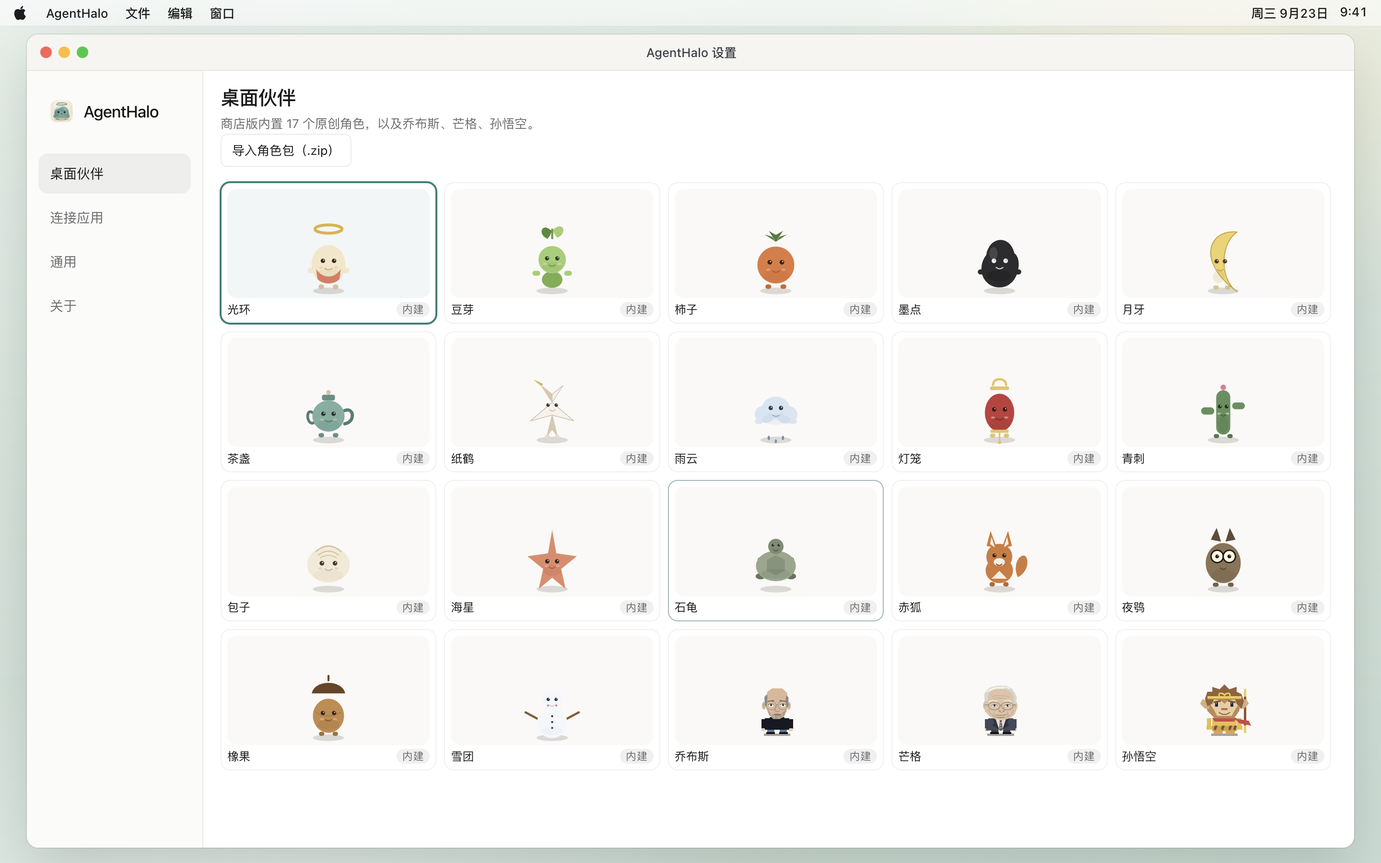
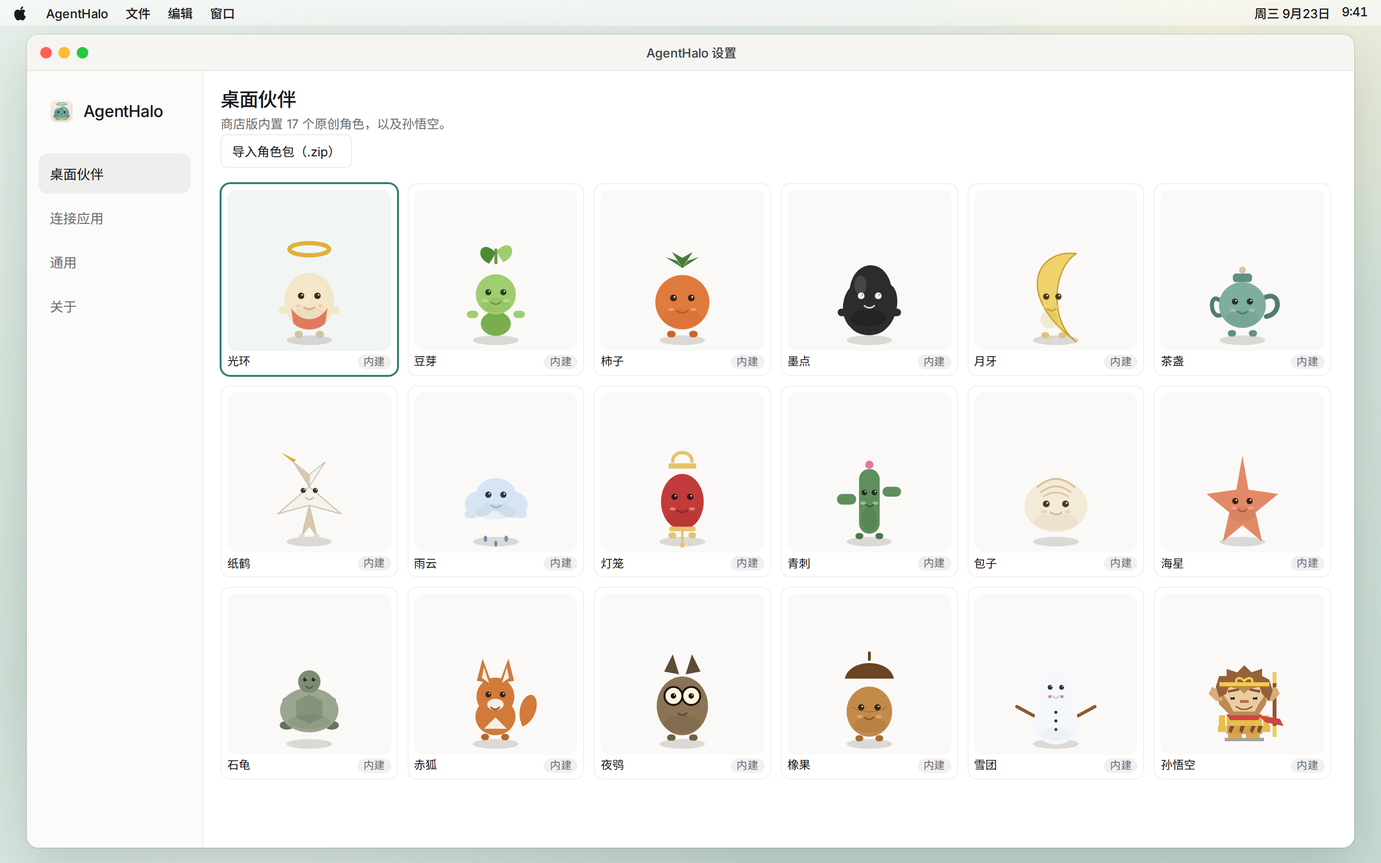
Drop Jobs and Munger from the listing screenshots
04-characters shows the 18 store characters in a 6 x 3 grid and says the
store build ships 17 original companions plus Sun Wukong. 05-about no
longer claims AgentHalo does not read conversations; it says task status
is processed on the Mac and is not stored off it or uploaded. Both PNGs
are re-rendered at 2880x1800.

The mockups now reference agenthalo/ through relative paths instead of
one developer's home folder, so they render from any checkout.

Claude-Session: https://claude.ai/code/session_01YZwcZnMMEu8dx9oekRyFzU

diff --git a/store/screenshots/04-characters.html b/store/screenshots/04-characters.html
@@ -1,6 +1,6 @@
 <!DOCTYPE html><html lang="zh-Hans"><head><meta charset="utf-8">
 <meta name="color-scheme" content="light">
-<link rel="stylesheet" href="file:///Users/martin/Desktop/AgentHalo-MAS/agenthalo/src/settings.css">
+<link rel="stylesheet" href="../../agenthalo/src/settings.css">
 <style>
 
 * { box-sizing: border-box; }
@@ -63,9 +63,9 @@ html, body { margin: 0; width: 1440px; height: 900px; overflow: hidden;
 .content { padding: 14px 18px 8px !important; }
 .content h1 { font-size: 20px !important; margin-bottom: 2px !important; }
 .content .subtitle { margin: 0 0 8px !important; }
-.theme-grid { grid-template-columns: repeat(5, 1fr) !important; gap: 8px !important; }
+.theme-grid { grid-template-columns: repeat(6, 1fr) !important; gap: 10px !important; }
 .theme-card { padding: 6px !important; gap: 4px !important; }
-.theme-thumb { aspect-ratio: 1.85 / 1 !important; }
+.theme-thumb { aspect-ratio: 1.02 / 1 !important; }
 .theme-card-name { font-size: 12px !important; line-height: 1.2; }
 .theme-card, .theme-card:focus, .theme-card:focus-visible { outline: none !important; }
 .theme-card { box-shadow: none !important; }
@@ -75,72 +75,66 @@ html, body { margin: 0; width: 1440px; height: 900px; overflow: hidden;
 </style></head><body><div class="desktop"><div class="menubar"><svg class="apple" width="14" height="16" viewBox="0 0 14 17" aria-hidden="true"><path fill="#1c1c1e" d="M11.2 8.9c0-2 1.6-3 1.7-3.1-1-1.4-2.4-1.6-2.9-1.6-1.2-.1-2.4.7-3 .7s-1.6-.7-2.6-.7c-1.4 0-2.6.8-3.3 2-1.4 2.5-.4 6.1 1 8.1.7 1 1.5 2.1 2.5 2 1 0 1.4-.7 2.6-.7s1.6.7 2.6.6c1.1 0 1.8-1 2.4-2 .8-1.1 1.1-2.2 1.1-2.3-.1 0-2.1-.8-2.1-3zM9.5 3.2c.5-.7.9-1.6.8-2.5-.8 0-1.7.5-2.2 1.2-.5.6-.9 1.5-.8 2.4.9.1 1.7-.4 2.2-1.1z"/></svg><span>AgentHalo</span><span>文件</span><span>编辑</span><span>窗口</span><span class="sp"></span><span class="right"><span>周三 9月23日</span><span>9:41</span></span></div><div class="window" style="left:36px;top:46px;width:1368px;height:830px">
       <div class="titlebar"><span class="lights"><i class="r"></i><i class="y"></i><i class="g"></i></span><b>AgentHalo 设置</b></div>
       <div class="app" style="min-height:0;flex:1">
-        <nav class="sidebar"><div class="sidebar-brand"><img src="file:///Users/martin/Desktop/AgentHalo-MAS/agenthalo/assets/icon.png" alt=""><span>AgentHalo</span></div><button class="sidebar-item active" type="button"><span class="sidebar-item-label">桌面伙伴</span></button><button class="sidebar-item" type="button"><span class="sidebar-item-label">连接应用</span></button><button class="sidebar-item" type="button"><span class="sidebar-item-label">通用</span></button><button class="sidebar-item" type="button"><span class="sidebar-item-label">关于</span></button></nav>
+        <nav class="sidebar"><div class="sidebar-brand"><img src="../../agenthalo/assets/icon.png" alt=""><span>AgentHalo</span></div><button class="sidebar-item active" type="button"><span class="sidebar-item-label">桌面伙伴</span></button><button class="sidebar-item" type="button"><span class="sidebar-item-label">连接应用</span></button><button class="sidebar-item" type="button"><span class="sidebar-item-label">通用</span></button><button class="sidebar-item" type="button"><span class="sidebar-item-label">关于</span></button></nav>
         <main class="content" style="overflow:auto">
 <h1>桌面伙伴</h1>
-<p class="subtitle">商店版内置 17 个原创角色，以及乔布斯、芒格、孙悟空。</p>
+<p class="subtitle">商店版内置 17 个原创角色，以及孙悟空。</p>
 <div style="display:flex;gap:8px;margin:-8px 0 16px">
   <button class="soft-btn" type="button">导入角色包（.zip）</button>
 </div>
 <div class="theme-grid"><div class="theme-card active" role="img">
-      <div class="theme-thumb"><img src="file:///Users/martin/Desktop/AgentHalo-MAS/agenthalo/themes/halo/assets/idle-follow.svg" alt="光环"></div>
+      <div class="theme-thumb"><img src="../../agenthalo/themes/halo/assets/idle-follow.svg" alt="光环"></div>
       <div class="theme-card-name"><span class="theme-card-name-text">光环</span><span class="theme-card-badge">内建</span></div>
     </div><div class="theme-card" role="img">
-      <div class="theme-thumb"><img src="file:///Users/martin/Desktop/AgentHalo-MAS/agenthalo/themes/sprout/assets/idle-follow.svg" alt="豆芽"></div>
+      <div class="theme-thumb"><img src="../../agenthalo/themes/sprout/assets/idle-follow.svg" alt="豆芽"></div>
       <div class="theme-card-name"><span class="theme-card-name-text">豆芽</span><span class="theme-card-badge">内建</span></div>
     </div><div class="theme-card" role="img">
-      <div class="theme-thumb"><img src="file:///Users/martin/Desktop/AgentHalo-MAS/agenthalo/themes/persimmon/assets/idle-follow.svg" alt="柿子"></div>
+      <div class="theme-thumb"><img src="../../agenthalo/themes/persimmon/assets/idle-follow.svg" alt="柿子"></div>
       <div class="theme-card-name"><span class="theme-card-name-text">柿子</span><span class="theme-card-badge">内建</span></div>
     </div><div class="theme-card" role="img">
-      <div class="theme-thumb"><img src="file:///Users/martin/Desktop/AgentHalo-MAS/agenthalo/themes/ink/assets/idle-follow.svg" alt="墨点"></div>
+      <div class="theme-thumb"><img src="../../agenthalo/themes/ink/assets/idle-follow.svg" alt="墨点"></div>
       <div class="theme-card-name"><span class="theme-card-name-text">墨点</span><span class="theme-card-badge">内建</span></div>
     </div><div class="theme-card" role="img">
-      <div class="theme-thumb"><img src="file:///Users/martin/Desktop/AgentHalo-MAS/agenthalo/themes/crescent/assets/idle-follow.svg" alt="月牙"></div>
+      <div class="theme-thumb"><img src="../../agenthalo/themes/crescent/assets/idle-follow.svg" alt="月牙"></div>
       <div class="theme-card-name"><span class="theme-card-name-text">月牙</span><span class="theme-card-badge">内建</span></div>
     </div><div class="theme-card" role="img">
-      <div class="theme-thumb"><img src="file:///Users/martin/Desktop/AgentHalo-MAS/agenthalo/themes/teapot/assets/idle-follow.svg" alt="茶盏"></div>
+      <div class="theme-thumb"><img src="../../agenthalo/themes/teapot/assets/idle-follow.svg" alt="茶盏"></div>
       <div class="theme-card-name"><span class="theme-card-name-text">茶盏</span><span class="theme-card-badge">内建</span></div>
     </div><div class="theme-card" role="img">
-      <div class="theme-thumb"><img src="file:///Users/martin/Desktop/AgentHalo-MAS/agenthalo/themes/crane/assets/idle-follow.svg" alt="纸鹤"></div>
+      <div class="theme-thumb"><img src="../../agenthalo/themes/crane/assets/idle-follow.svg" alt="纸鹤"></div>
       <div class="theme-card-name"><span class="theme-card-name-text">纸鹤</span><span class="theme-card-badge">内建</span></div>
     </div><div class="theme-card" role="img">
-      <div class="theme-thumb"><img src="file:///Users/martin/Desktop/AgentHalo-MAS/agenthalo/themes/nimbus/assets/idle-follow.svg" alt="雨云"></div>
+      <div class="theme-thumb"><img src="../../agenthalo/themes/nimbus/assets/idle-follow.svg" alt="雨云"></div>
       <div class="theme-card-name"><span class="theme-card-name-text">雨云</span><span class="theme-card-badge">内建</span></div>
     </div><div class="theme-card" role="img">
-      <div class="theme-thumb"><img src="file:///Users/martin/Desktop/AgentHalo-MAS/agenthalo/themes/lantern/assets/idle-follow.svg" alt="灯笼"></div>
+      <div class="theme-thumb"><img src="../../agenthalo/themes/lantern/assets/idle-follow.svg" alt="灯笼"></div>
       <div class="theme-card-name"><span class="theme-card-name-text">灯笼</span><span class="theme-card-badge">内建</span></div>
     </div><div class="theme-card" role="img">
-      <div class="theme-thumb"><img src="file:///Users/martin/Desktop/AgentHalo-MAS/agenthalo/themes/cactus/assets/idle-follow.svg" alt="青刺"></div>
+      <div class="theme-thumb"><img src="../../agenthalo/themes/cactus/assets/idle-follow.svg" alt="青刺"></div>
       <div class="theme-card-name"><span class="theme-card-name-text">青刺</span><span class="theme-card-badge">内建</span></div>
     </div><div class="theme-card" role="img">
-      <div class="theme-thumb"><img src="file:///Users/martin/Desktop/AgentHalo-MAS/agenthalo/themes/bao/assets/idle-follow.svg" alt="包子"></div>
+      <div class="theme-thumb"><img src="../../agenthalo/themes/bao/assets/idle-follow.svg" alt="包子"></div>
       <div class="theme-card-name"><span class="theme-card-name-text">包子</span><span class="theme-card-badge">内建</span></div>
     </div><div class="theme-card" role="img">
-      <div class="theme-thumb"><img src="file:///Users/martin/Desktop/AgentHalo-MAS/agenthalo/themes/starfish/assets/idle-follow.svg" alt="海星"></div>
+      <div class="theme-thumb"><img src="../../agenthalo/themes/starfish/assets/idle-follow.svg" alt="海星"></div>
       <div class="theme-card-name"><span class="theme-card-name-text">海星</span><span class="theme-card-badge">内建</span></div>
     </div><div class="theme-card" role="img">
-      <div class="theme-thumb"><img src="file:///Users/martin/Desktop/AgentHalo-MAS/agenthalo/themes/turtle/assets/idle-follow.svg" alt="石龟"></div>
+      <div class="theme-thumb"><img src="../../agenthalo/themes/turtle/assets/idle-follow.svg" alt="石龟"></div>
       <div class="theme-card-name"><span class="theme-card-name-text">石龟</span><span class="theme-card-badge">内建</span></div>
     </div><div class="theme-card" role="img">
-      <div class="theme-thumb"><img src="file:///Users/martin/Desktop/AgentHalo-MAS/agenthalo/themes/fox/assets/idle-follow.svg" alt="赤狐"></div>
+      <div class="theme-thumb"><img src="../../agenthalo/themes/fox/assets/idle-follow.svg" alt="赤狐"></div>
       <div class="theme-card-name"><span class="theme-card-name-text">赤狐</span><span class="theme-card-badge">内建</span></div>
     </div><div class="theme-card" role="img">
-      <div class="theme-thumb"><img src="file:///Users/martin/Desktop/AgentHalo-MAS/agenthalo/themes/owl/assets/idle-follow.svg" alt="夜鸮"></div>
+      <div class="theme-thumb"><img src="../../agenthalo/themes/owl/assets/idle-follow.svg" alt="夜鸮"></div>
       <div class="theme-card-name"><span class="theme-card-name-text">夜鸮</span><span class="theme-card-badge">内建</span></div>
     </div><div class="theme-card" role="img">
-      <div class="theme-thumb"><img src="file:///Users/martin/Desktop/AgentHalo-MAS/agenthalo/themes/acorn/assets/idle-follow.svg" alt="橡果"></div>
+      <div class="theme-thumb"><img src="../../agenthalo/themes/acorn/assets/idle-follow.svg" alt="橡果"></div>
       <div class="theme-card-name"><span class="theme-card-name-text">橡果</span><span class="theme-card-badge">内建</span></div>
     </div><div class="theme-card" role="img">
-      <div class="theme-thumb"><img src="file:///Users/martin/Desktop/AgentHalo-MAS/agenthalo/themes/snow/assets/idle-follow.svg" alt="雪团"></div>
+      <div class="theme-thumb"><img src="../../agenthalo/themes/snow/assets/idle-follow.svg" alt="雪团"></div>
       <div class="theme-card-name"><span class="theme-card-name-text">雪团</span><span class="theme-card-badge">内建</span></div>
     </div><div class="theme-card" role="img">
-      <div class="theme-thumb"><img src="file:///Users/martin/Desktop/AgentHalo-MAS/agenthalo/themes/jobs/assets/idle-follow.svg" alt="乔布斯"></div>
-      <div class="theme-card-name"><span class="theme-card-name-text">乔布斯</span><span class="theme-card-badge">内建</span></div>
-    </div><div class="theme-card" role="img">
-      <div class="theme-thumb"><img src="file:///Users/martin/Desktop/AgentHalo-MAS/agenthalo/themes/munger/assets/idle-follow.svg" alt="芒格"></div>
-      <div class="theme-card-name"><span class="theme-card-name-text">芒格</span><span class="theme-card-badge">内建</span></div>
-    </div><div class="theme-card" role="img">
-      <div class="theme-thumb"><img src="file:///Users/martin/Desktop/AgentHalo-MAS/agenthalo/themes/sunwukong/assets/idle-follow.svg" alt="孙悟空"></div>
+      <div class="theme-thumb"><img src="../../agenthalo/themes/sunwukong/assets/idle-follow.svg" alt="孙悟空"></div>
       <div class="theme-card-name"><span class="theme-card-name-text">孙悟空</span><span class="theme-card-badge">内建</span></div>
     </div></div>
 </main>

diff --git a/store/screenshots/02-choose-folder.html b/store/screenshots/02-choose-folder.html
@@ -1,6 +1,6 @@
 <!DOCTYPE html><html lang="zh-Hans"><head><meta charset="utf-8">
 <meta name="color-scheme" content="light">
-<link rel="stylesheet" href="file:///Users/martin/Desktop/AgentHalo-MAS/agenthalo/src/settings.css">
+<link rel="stylesheet" href="../../agenthalo/src/settings.css">
 <style>
 
 * { box-sizing: border-box; }
@@ -62,7 +62,7 @@ html, body { margin: 0; width: 1440px; height: 900px; overflow: hidden;
 </style></head><body><div class="desktop"><div class="menubar"><svg class="apple" width="14" height="16" viewBox="0 0 14 17" aria-hidden="true"><path fill="#1c1c1e" d="M11.2 8.9c0-2 1.6-3 1.7-3.1-1-1.4-2.4-1.6-2.9-1.6-1.2-.1-2.4.7-3 .7s-1.6-.7-2.6-.7c-1.4 0-2.6.8-3.3 2-1.4 2.5-.4 6.1 1 8.1.7 1 1.5 2.1 2.5 2 1 0 1.4-.7 2.6-.7s1.6.7 2.6.6c1.1 0 1.8-1 2.4-2 .8-1.1 1.1-2.2 1.1-2.3-.1 0-2.1-.8-2.1-3zM9.5 3.2c.5-.7.9-1.6.8-2.5-.8 0-1.7.5-2.2 1.2-.5.6-.9 1.5-.8 2.4.9.1 1.7-.4 2.2-1.1z"/></svg><span>AgentHalo</span><span>文件</span><span>编辑</span><span>窗口</span><span class="sp"></span><span class="right"><span>周三 9月23日</span><span>9:41</span></span></div><div class="window">
       <div class="titlebar"><span class="lights"><i class="r"></i><i class="y"></i><i class="g"></i></span><b>AgentHalo 设置</b></div>
       <div class="app" style="min-height:0;flex:1">
-        <nav class="sidebar"><div class="sidebar-brand"><img src="file:///Users/martin/Desktop/AgentHalo-MAS/agenthalo/assets/icon.png" alt=""><span>AgentHalo</span></div><button class="sidebar-item" type="button"><span class="sidebar-item-label">桌面伙伴</span></button><button class="sidebar-item active" type="button"><span class="sidebar-item-label">连接应用</span></button><button class="sidebar-item" type="button"><span class="sidebar-item-label">通用</span></button><button class="sidebar-item" type="button"><span class="sidebar-item-label">关于</span></button></nav>
+        <nav class="sidebar"><div class="sidebar-brand"><img src="../../agenthalo/assets/icon.png" alt=""><span>AgentHalo</span></div><button class="sidebar-item" type="button"><span class="sidebar-item-label">桌面伙伴</span></button><button class="sidebar-item active" type="button"><span class="sidebar-item-label">连接应用</span></button><button class="sidebar-item" type="button"><span class="sidebar-item-label">通用</span></button><button class="sidebar-item" type="button"><span class="sidebar-item-label">关于</span></button></nav>
         <main class="content" style="overflow:auto">
 <h1>连接应用</h1>
 <p class="subtitle">接入你常用的 AI 应用，在桌面查看任务状态。</p>
@@ -74,7 +74,7 @@ html, body { margin: 0; width: 1440px; height: 900px; overflow: hidden;
       <div class="section-rows">
         <div class="row">
           <div class="row-text">
-            <span class="row-label" style="display:flex;align-items:center;gap:8px"><img src="file:///Users/martin/Desktop/AgentHalo-MAS/agenthalo/assets/icons/agents/claude-code.png" width="18" height="18" alt="">Claude Code</span>
+            <span class="row-label" style="display:flex;align-items:center;gap:8px"><img src="../../agenthalo/assets/icons/agents/claude-code.png" width="18" height="18" alt="">Claude Code</span>
             <span class="row-desc agent-badges"><span class="agent-badge integration not-installed">未接入</span></span>
           </div>
           <div class="switch"></div>
@@ -92,7 +92,7 @@ html, body { margin: 0; width: 1440px; height: 900px; overflow: hidden;
       <div class="section-rows">
         <div class="row">
           <div class="row-text">
-            <span class="row-label" style="display:flex;align-items:center;gap:8px"><img src="file:///Users/martin/Desktop/AgentHalo-MAS/agenthalo/assets/icons/agents/codex.png" width="18" height="18" alt="">Codex</span>
+            <span class="row-label" style="display:flex;align-items:center;gap:8px"><img src="../../agenthalo/assets/icons/agents/codex.png" width="18" height="18" alt="">Codex</span>
             <span class="row-desc agent-badges"><span class="agent-badge integration not-installed">未接入</span></span>
           </div>
           <div class="switch"></div>
@@ -110,7 +110,7 @@ html, body { margin: 0; width: 1440px; height: 900px; overflow: hidden;
       <div class="section-rows">
         <div class="row">
           <div class="row-text">
-            <span class="row-label" style="display:flex;align-items:center;gap:8px"><img src="file:///Users/martin/Desktop/AgentHalo-MAS/agenthalo/assets/icons/agents/cursor-agent.png" width="18" height="18" alt="">Cursor</span>
+            <span class="row-label" style="display:flex;align-items:center;gap:8px"><img src="../../agenthalo/assets/icons/agents/cursor-agent.png" width="18" height="18" alt="">Cursor</span>
             <span class="row-desc agent-badges"><span class="agent-badge integration not-installed">未接入</span></span>
           </div>
           <div class="switch"></div>

diff --git a/store/screenshots/03-authorized.html b/store/screenshots/03-authorized.html
@@ -1,6 +1,6 @@
 <!DOCTYPE html><html lang="zh-Hans"><head><meta charset="utf-8">
 <meta name="color-scheme" content="light">
-<link rel="stylesheet" href="file:///Users/martin/Desktop/AgentHalo-MAS/agenthalo/src/settings.css">
+<link rel="stylesheet" href="../../agenthalo/src/settings.css">
 <style>
 
 * { box-sizing: border-box; }
@@ -62,7 +62,7 @@ html, body { margin: 0; width: 1440px; height: 900px; overflow: hidden;
 </style></head><body><div class="desktop"><div class="menubar"><svg class="apple" width="14" height="16" viewBox="0 0 14 17" aria-hidden="true"><path fill="#1c1c1e" d="M11.2 8.9c0-2 1.6-3 1.7-3.1-1-1.4-2.4-1.6-2.9-1.6-1.2-.1-2.4.7-3 .7s-1.6-.7-2.6-.7c-1.4 0-2.6.8-3.3 2-1.4 2.5-.4 6.1 1 8.1.7 1 1.5 2.1 2.5 2 1 0 1.4-.7 2.6-.7s1.6.7 2.6.6c1.1 0 1.8-1 2.4-2 .8-1.1 1.1-2.2 1.1-2.3-.1 0-2.1-.8-2.1-3zM9.5 3.2c.5-.7.9-1.6.8-2.5-.8 0-1.7.5-2.2 1.2-.5.6-.9 1.5-.8 2.4.9.1 1.7-.4 2.2-1.1z"/></svg><span>AgentHalo</span><span>文件</span><span>编辑</span><span>窗口</span><span class="sp"></span><span class="right"><span>周三 9月23日</span><span>9:41</span></span></div><div class="window">
       <div class="titlebar"><span class="lights"><i class="r"></i><i class="y"></i><i class="g"></i></span><b>AgentHalo 设置</b></div>
       <div class="app" style="min-height:0;flex:1">
-        <nav class="sidebar"><div class="sidebar-brand"><img src="file:///Users/martin/Desktop/AgentHalo-MAS/agenthalo/assets/icon.png" alt=""><span>AgentHalo</span></div><button class="sidebar-item" type="button"><span class="sidebar-item-label">桌面伙伴</span></button><button class="sidebar-item active" type="button"><span class="sidebar-item-label">连接应用</span></button><button class="sidebar-item" type="button"><span class="sidebar-item-label">通用</span></button><button class="sidebar-item" type="button"><span class="sidebar-item-label">关于</span></button></nav>
+        <nav class="sidebar"><div class="sidebar-brand"><img src="../../agenthalo/assets/icon.png" alt=""><span>AgentHalo</span></div><button class="sidebar-item" type="button"><span class="sidebar-item-label">桌面伙伴</span></button><button class="sidebar-item active" type="button"><span class="sidebar-item-label">连接应用</span></button><button class="sidebar-item" type="button"><span class="sidebar-item-label">通用</span></button><button class="sidebar-item" type="button"><span class="sidebar-item-label">关于</span></button></nav>
         <main class="content" style="overflow:auto">
 <h1>连接应用</h1>
 <p class="subtitle">接入你常用的 AI 应用，在桌面查看任务状态。</p>
@@ -74,7 +74,7 @@ html, body { margin: 0; width: 1440px; height: 900px; overflow: hidden;
       <div class="section-rows">
         <div class="row">
           <div class="row-text">
-            <span class="row-label" style="display:flex;align-items:center;gap:8px"><img src="file:///Users/martin/Desktop/AgentHalo-MAS/agenthalo/assets/icons/agents/claude-code.png" width="18" height="18" alt="">Claude Code</span>
+            <span class="row-label" style="display:flex;align-items:center;gap:8px"><img src="../../agenthalo/assets/icons/agents/claude-code.png" width="18" height="18" alt="">Claude Code</span>
             <span class="row-desc agent-badges"><span class="agent-badge integration">已接入</span></span>
           </div>
           <div class="switch on"></div>
@@ -92,7 +92,7 @@ html, body { margin: 0; width: 1440px; height: 900px; overflow: hidden;
       <div class="section-rows">
         <div class="row">
           <div class="row-text">
-            <span class="row-label" style="display:flex;align-items:center;gap:8px"><img src="file:///Users/martin/Desktop/AgentHalo-MAS/agenthalo/assets/icons/agents/codex.png" width="18" height="18" alt="">Codex</span>
+            <span class="row-label" style="display:flex;align-items:center;gap:8px"><img src="../../agenthalo/assets/icons/agents/codex.png" width="18" height="18" alt="">Codex</span>
             <span class="row-desc agent-badges"><span class="agent-badge integration">已接入</span></span>
           </div>
           <div class="switch on"></div>
@@ -110,7 +110,7 @@ html, body { margin: 0; width: 1440px; height: 900px; overflow: hidden;
       <div class="section-rows">
         <div class="row">
           <div class="row-text">
-            <span class="row-label" style="display:flex;align-items:center;gap:8px"><img src="file:///Users/martin/Desktop/AgentHalo-MAS/agenthalo/assets/icons/agents/cursor-agent.png" width="18" height="18" alt="">Cursor</span>
+            <span class="row-label" style="display:flex;align-items:center;gap:8px"><img src="../../agenthalo/assets/icons/agents/cursor-agent.png" width="18" height="18" alt="">Cursor</span>
             <span class="row-desc agent-badges"><span class="agent-badge integration not-installed">未接入</span></span>
           </div>
           <div class="switch"></div>

diff --git a/store/screenshots/05-about.html b/store/screenshots/05-about.html
@@ -1,6 +1,6 @@
 <!DOCTYPE html><html lang="zh-Hans"><head><meta charset="utf-8">
 <meta name="color-scheme" content="light">
-<link rel="stylesheet" href="file:///Users/martin/Desktop/AgentHalo-MAS/agenthalo/src/settings.css">
+<link rel="stylesheet" href="../../agenthalo/src/settings.css">
 <style>
 
 * { box-sizing: border-box; }
@@ -62,10 +62,10 @@ html, body { margin: 0; width: 1440px; height: 900px; overflow: hidden;
 </style></head><body><div class="desktop"><div class="menubar"><svg class="apple" width="14" height="16" viewBox="0 0 14 17" aria-hidden="true"><path fill="#1c1c1e" d="M11.2 8.9c0-2 1.6-3 1.7-3.1-1-1.4-2.4-1.6-2.9-1.6-1.2-.1-2.4.7-3 .7s-1.6-.7-2.6-.7c-1.4 0-2.6.8-3.3 2-1.4 2.5-.4 6.1 1 8.1.7 1 1.5 2.1 2.5 2 1 0 1.4-.7 2.6-.7s1.6.7 2.6.6c1.1 0 1.8-1 2.4-2 .8-1.1 1.1-2.2 1.1-2.3-.1 0-2.1-.8-2.1-3zM9.5 3.2c.5-.7.9-1.6.8-2.5-.8 0-1.7.5-2.2 1.2-.5.6-.9 1.5-.8 2.4.9.1 1.7-.4 2.2-1.1z"/></svg><span>AgentHalo</span><span>文件</span><span>编辑</span><span>窗口</span><span class="sp"></span><span class="right"><span>周三 9月23日</span><span>9:41</span></span></div><div class="window">
       <div class="titlebar"><span class="lights"><i class="r"></i><i class="y"></i><i class="g"></i></span><b>AgentHalo 设置</b></div>
       <div class="app" style="min-height:0;flex:1">
-        <nav class="sidebar"><div class="sidebar-brand"><img src="file:///Users/martin/Desktop/AgentHalo-MAS/agenthalo/assets/icon.png" alt=""><span>AgentHalo</span></div><button class="sidebar-item" type="button"><span class="sidebar-item-label">桌面伙伴</span></button><button class="sidebar-item" type="button"><span class="sidebar-item-label">连接应用</span></button><button class="sidebar-item" type="button"><span class="sidebar-item-label">通用</span></button><button class="sidebar-item active" type="button"><span class="sidebar-item-label">关于</span></button></nav>
+        <nav class="sidebar"><div class="sidebar-brand"><img src="../../agenthalo/assets/icon.png" alt=""><span>AgentHalo</span></div><button class="sidebar-item" type="button"><span class="sidebar-item-label">桌面伙伴</span></button><button class="sidebar-item" type="button"><span class="sidebar-item-label">连接应用</span></button><button class="sidebar-item" type="button"><span class="sidebar-item-label">通用</span></button><button class="sidebar-item active" type="button"><span class="sidebar-item-label">关于</span></button></nav>
         <main class="content" style="overflow:auto">
 <div class="about-hero">
-  <img class="about-app-icon" src="file:///Users/martin/Desktop/AgentHalo-MAS/agenthalo/assets/icon.png" alt="AgentHalo">
+  <img class="about-app-icon" src="../../agenthalo/assets/icon.png" alt="AgentHalo">
   <h2 class="about-title">AgentHalo</h2>
   <p class="about-tagline">陪你把想法慢慢变成现实。</p>
 </div>
@@ -75,7 +75,7 @@ html, body { margin: 0; width: 1440px; height: 900px; overflow: hidden;
   <div class="row"><div class="row-text"><span class="row-label">支持</span></div><span class="row-desc" style="color:#307e76">联系支持</span></div>
   <div class="row"><div class="row-text"><span class="row-label">许可</span></div><span class="row-desc">AGPL-3.0-only</span></div>
 </div></section>
-<p class="subtitle" style="margin-top:8px;line-height:1.55">不读对话，不把任务内容上传到苹果或我们的服务器。状态口只绑在 127.0.0.1。商店版要接入工具时，需在设置里亲手选择配置文件夹，hook 只写在你授权的目录里。</p>
+<p class="subtitle" style="margin-top:8px;line-height:1.55">任务状态只在这台 Mac 上处理，不存到 Mac 以外，也不上传给苹果或我们。本机状态服务只监听 127.0.0.1。<br>接入工具前，需要在设置里亲手选择它的配置文件夹；hook 只写在你授权的文件夹里。</p>
 </main>
       </div>
     </div></div></body></html>

diff --git a/store/screenshots/01-desktop.html b/store/screenshots/01-desktop.html
@@ -1,6 +1,6 @@
 <!DOCTYPE html><html lang="zh-Hans"><head><meta charset="utf-8">
 <meta name="color-scheme" content="light">
-<link rel="stylesheet" href="file:///Users/martin/Desktop/AgentHalo-MAS/agenthalo/src/settings.css">
+<link rel="stylesheet" href="../../agenthalo/src/settings.css">
 <style>
 
 * { box-sizing: border-box; }
@@ -62,9 +62,9 @@ html, body { margin: 0; width: 1440px; height: 900px; overflow: hidden;
 </style></head><body><div class="desktop"><div class="menubar"><svg class="apple" width="14" height="16" viewBox="0 0 14 17" aria-hidden="true"><path fill="#1c1c1e" d="M11.2 8.9c0-2 1.6-3 1.7-3.1-1-1.4-2.4-1.6-2.9-1.6-1.2-.1-2.4.7-3 .7s-1.6-.7-2.6-.7c-1.4 0-2.6.8-3.3 2-1.4 2.5-.4 6.1 1 8.1.7 1 1.5 2.1 2.5 2 1 0 1.4-.7 2.6-.7s1.6.7 2.6.6c1.1 0 1.8-1 2.4-2 .8-1.1 1.1-2.2 1.1-2.3-.1 0-2.1-.8-2.1-3zM9.5 3.2c.5-.7.9-1.6.8-2.5-.8 0-1.7.5-2.2 1.2-.5.6-.9 1.5-.8 2.4.9.1 1.7-.4 2.2-1.1z"/></svg><span>AgentHalo</span><span>文件</span><span>编辑</span><span>窗口</span><span class="sp"></span><span class="right"><span>周三 9月23日</span><span>9:41</span></span></div>
 <div class="hud">
   <div class="hud-head">任务</div>
-  <div class="task"><span class="dot"></span><img src="file:///Users/martin/Desktop/AgentHalo-MAS/agenthalo/assets/icons/agents/claude-code.png" alt=""><span class="name">整理商店截图</span><span class="chip work">工作中</span></div>
-  <div class="task"><span class="dot" style="background:#6366f1"></span><img src="file:///Users/martin/Desktop/AgentHalo-MAS/agenthalo/assets/icons/agents/codex.png" alt=""><span class="name">核对签名</span><span class="chip think">思考中</span></div>
-  <div class="task"><span class="dot" style="background:#9ca3af"></span><img src="file:///Users/martin/Desktop/AgentHalo-MAS/agenthalo/assets/icons/agents/cursor-agent.png" alt=""><span class="name">角色页</span><span class="chip done">已完成</span></div>
+  <div class="task"><span class="dot"></span><img src="../../agenthalo/assets/icons/agents/claude-code.png" alt=""><span class="name">整理商店截图</span><span class="chip work">工作中</span></div>
+  <div class="task"><span class="dot" style="background:#6366f1"></span><img src="../../agenthalo/assets/icons/agents/codex.png" alt=""><span class="name">核对签名</span><span class="chip think">思考中</span></div>
+  <div class="task"><span class="dot" style="background:#9ca3af"></span><img src="../../agenthalo/assets/icons/agents/cursor-agent.png" alt=""><span class="name">角色页</span><span class="chip done">已完成</span></div>
 </div>
-<div class="pet"><img src="file:///Users/martin/Desktop/AgentHalo-MAS/agenthalo/themes/halo/assets/idle-follow.svg" alt="光环"></div>
+<div class="pet"><img src="../../agenthalo/themes/halo/assets/idle-follow.svg" alt="光环"></div>
 </div></body></html>

diff --git a/store/CONNECT.md b/store/CONNECT.md
@@ -144,7 +144,7 @@ Contact: addsumtech@gmail.com
 
 ## 截图清单
 
-Mac App Store 截图必须是 16:10，可用尺寸：1280×800、1440×900、2560×1600、2880×1800。每个语言 1–10 张。`store/screenshots/*.png` 是 2880×1800，由同名 HTML 以 1440×900 视口、deviceScaleFactor 2 渲染而成。
+Mac App Store 截图必须是 16:10，可用尺寸：1280×800、1440×900、2560×1600、2880×1800。每个语言 1–10 张。`store/screenshots/*.png` 是 2880×1800，由同名 HTML 以 1440×900 视口、deviceScaleFactor 2 渲染而成。HTML 用相对路径引用 `agenthalo/` 里的样式和素材，在任何检出目录都能直接渲染。01–03 是在 Mac 上用系统字体渲染的；04、05 是在 Linux 上用 Inter + Noto Sans SC 代替 SF / 苹方渲染的，观感接近。想要完全一致，就在 Mac 上把 04、05 重新渲染一次。
 
 只用商店版角色出镜（优先光环 / 孙悟空）：
 
